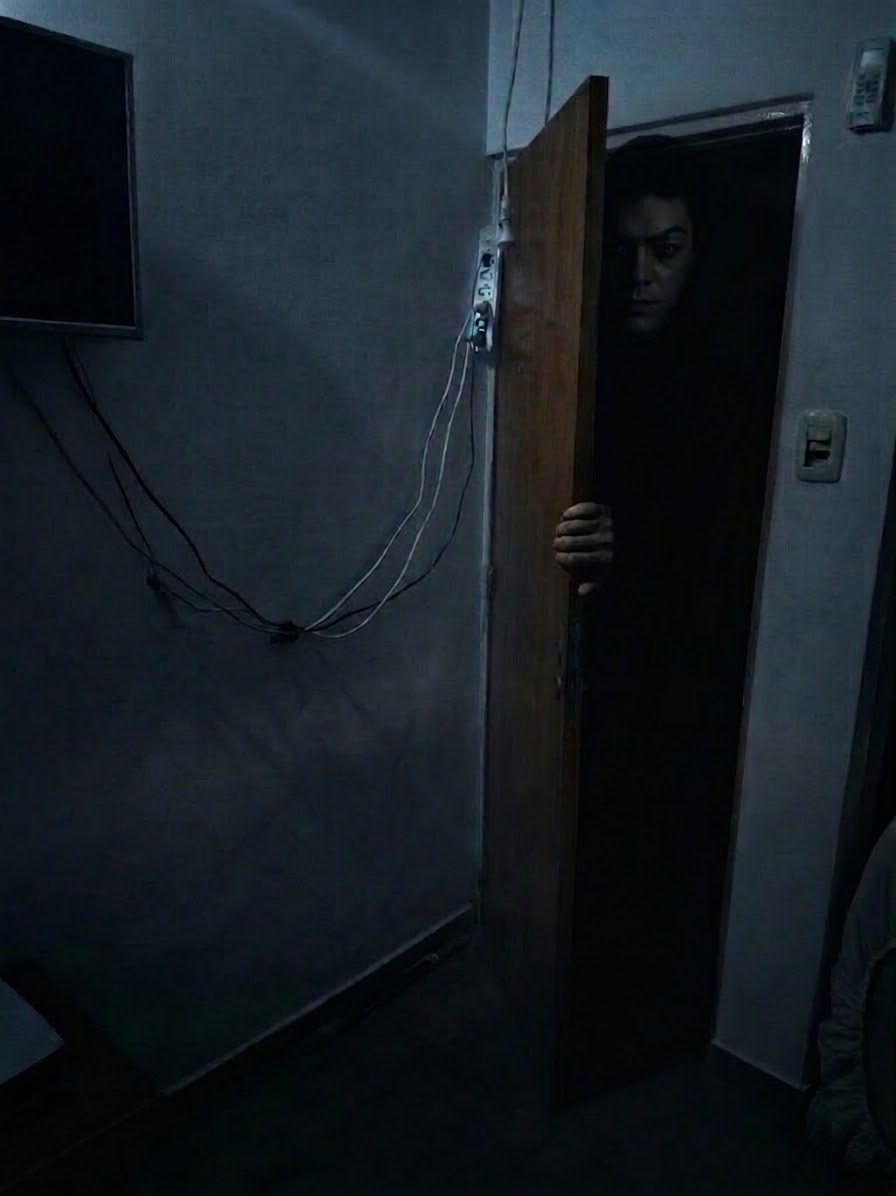
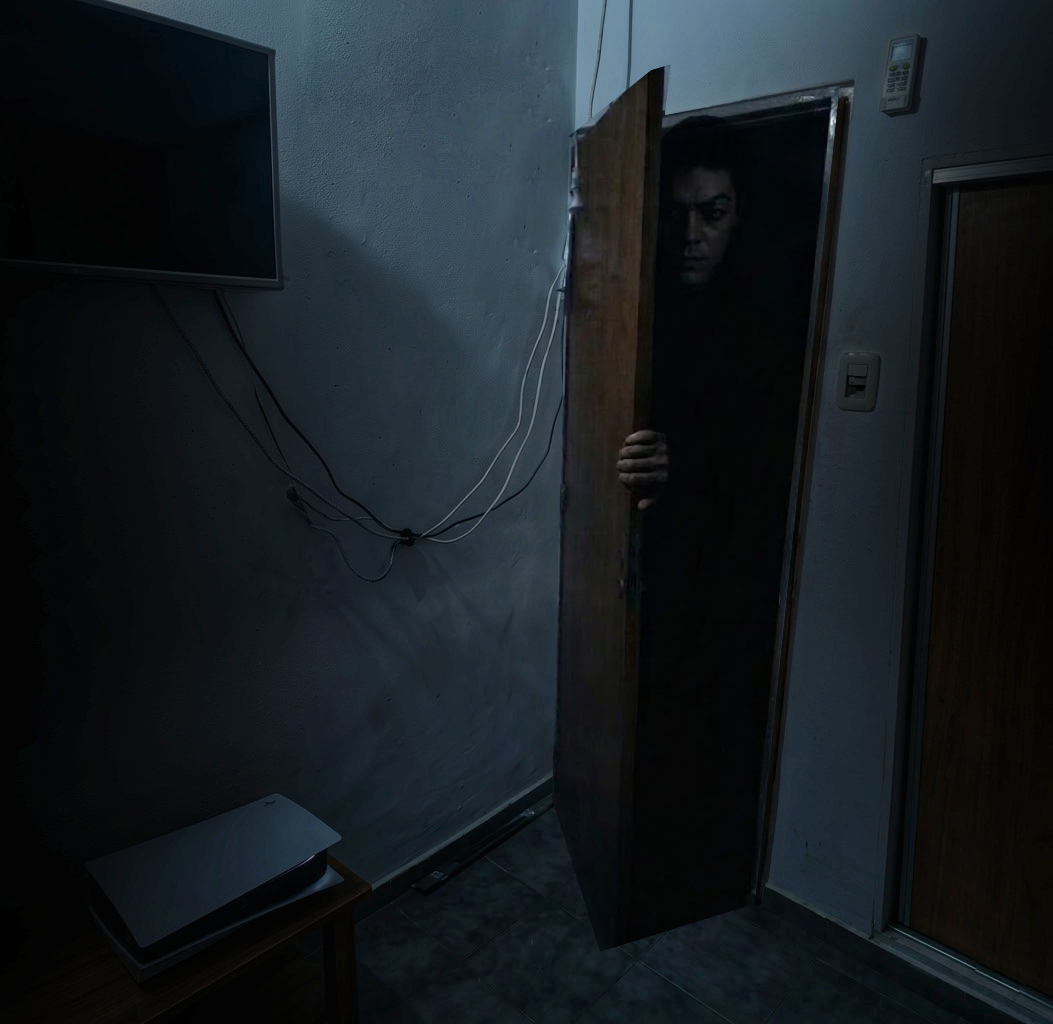
SE PUEDE JUGAR!

diff --git a/First_Night/script.js b/First_Night/script.js
@@ -29,6 +29,19 @@ document.addEventListener('DOMContentLoaded', () => {
         }, 300);
     }, 2000);
 
+    // Sonido ambiente de la noche
+    const atmosphereSound = new Audio('SOUND/atmosfera.mp3');
+    atmosphereSound.loop = true;
+    atmosphereSound.volume = 0.5;
+
+    function startAtmosphere() {
+        atmosphereSound.play().catch(() => {});
+    }
+    startAtmosphere();
+    // Si el navegador bloqueó el autoplay, arranca en la primera interacción del jugador
+    document.addEventListener('pointerdown', startAtmosphere, { once: true });
+    document.addEventListener('mousemove', startAtmosphere, { once: true });
+
     let targetX = window.innerWidth / 2;
     let targetY = window.innerHeight / 2;
     let currentX = targetX;
@@ -71,6 +84,8 @@ document.addEventListener('DOMContentLoaded', () => {
     let attackTimer = null;
     let banioSoundPlayed = false;
     const banioSound = new Audio('SOUND/baño.mp3');
+    const cambiarCamaraSound = new Audio('SOUND/cambiar_camara.mp3');
+    const abrirCamaraSound = new Audio('SOUND/abrir_camara.mp3');
 
     function playBanioSound() {
         if (banioSoundPlayed) return;
@@ -105,6 +120,7 @@ document.addEventListener('DOMContentLoaded', () => {
     function startAttack(type) {
         monsterState = type;
         refreshOfficeScene();
+        refreshCurrentCamera();
         updateHotspots();
         clearTimeout(attackTimer);
         attackTimer = setTimeout(() => {
@@ -154,17 +170,18 @@ document.addEventListener('DOMContentLoaded', () => {
         ps5Hotspot.classList.toggle('hidden', !ps5Active);
     }
 
-    // Imagen de cámara según si el monge está en esa sala o no
+    // Imagen de cámara según si el monge está realmente ahí (si está atacando, ya se fue de la sala)
     function getCamImage(camKey) {
         const files = CAM_FILES[camKey];
-        return monsterNode === camKey ? files.monge : files.alone;
+        const monsterHere = monsterState === 'patrol' && monsterNode === camKey;
+        return monsterHere ? files.monge : files.alone;
     }
 
     function refreshCurrentCamera() {
         if (currentCamKey === 'banio') {
             camBg.classList.add('cam-banio-placeholder');
             camBg.style.backgroundImage = 'none';
-            if (monsterNode === 'banio') playBanioSound();
+            if (monsterState === 'patrol' && monsterNode === 'banio') playBanioSound();
         } else {
             camBg.classList.remove('cam-banio-placeholder');
             camBg.style.backgroundImage = `url('${getCamImage(currentCamKey)}')`;
@@ -211,6 +228,7 @@ document.addEventListener('DOMContentLoaded', () => {
         clearInterval(timerInterval);
         clearTimeout(patrolTimer);
         clearTimeout(attackTimer);
+        atmosphereSound.pause();
         if (isMonitorUp) {
             cameraSystem.classList.remove('active');
             isMonitorUp = false;
@@ -227,6 +245,7 @@ document.addEventListener('DOMContentLoaded', () => {
         clearInterval(timerInterval);
         clearTimeout(patrolTimer);
         clearTimeout(attackTimer);
+        atmosphereSound.pause();
         if (isMonitorUp) {
             cameraSystem.classList.remove('active');
             isMonitorUp = false;
@@ -243,6 +262,8 @@ document.addEventListener('DOMContentLoaded', () => {
         if (isMonitorUp) {
             cameraSystem.classList.add('active');
             document.body.classList.remove('can-click');
+            abrirCamaraSound.currentTime = 0;
+            abrirCamaraSound.play().catch(() => {});
         } else {
             cameraSystem.classList.remove('active');
             // Re-evaluar zonas al bajar la cámara
@@ -262,6 +283,8 @@ document.addEventListener('DOMContentLoaded', () => {
 
             // Flash de estática
             camStaticFlash.classList.add('flash');
+            cambiarCamaraSound.currentTime = 0;
+            cambiarCamaraSound.play().catch(() => {});
 
             const camKey = e.target.getAttribute('data-cam');
             currentCamKey = camKey;
@@ -272,7 +295,7 @@ document.addEventListener('DOMContentLoaded', () => {
                 currentX = window.innerWidth / 2;
                 camBg.style.transform = `translateX(0px)`;
                 camStaticFlash.classList.remove('flash');
-                if (camKey === 'banio' && monsterNode === 'banio') playBanioSound();
+                if (camKey === 'banio' && monsterState === 'patrol' && monsterNode === 'banio') playBanioSound();
                 updateHotspots();
             }, 150); // Tiempo que dura el pantallazo blanco de estática
         });

diff --git a/First_Night/styles.css b/First_Night/styles.css
@@ -293,6 +293,21 @@ body.can-click { cursor: pointer; }
     height: 12%;
     pointer-events: auto;
     z-index: 55;
+    /* Placeholder visual: todavía no hay arte de la PS5 */
+    border: 3px dashed #0ff;
+    background: rgba(0, 255, 255, 0.12);
+    box-shadow: 0 0 15px rgba(0, 255, 255, 0.6);
+    display: flex;
+    justify-content: center;
+    align-items: center;
+    color: #0ff;
+    font-size: 0.75rem;
+    text-align: center;
+    text-shadow: 1px 1px 0 #000;
+}
+
+#ps5-hotspot::after {
+    content: 'PRENDER PS5';
 }
 
 /* Placeholder de la cámara de baño (sin foto todavía) */

diff --git a/First_Night/index.html b/First_Night/index.html
@@ -19,7 +19,7 @@
     <div class="noise"></div>
     <div id="flashlight" class="flashlight"></div>
 
-    <img id="hand-armario" class="hotspot hidden" src="hand_in_armario.png" alt="Llamar a Cristian">
+    <img id="hand-armario" class="hotspot hidden" src="hand_in_armario.png" alt="Llamar a Frida">
 
     <div id="fade-overlay" class="fade-overlay active"><div class="intro-text">Night 1</div></div>
 